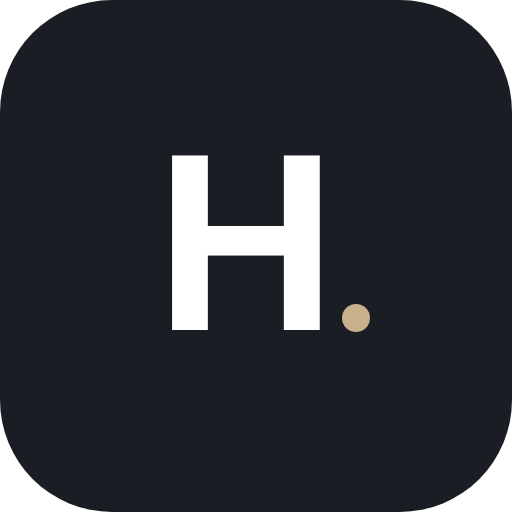
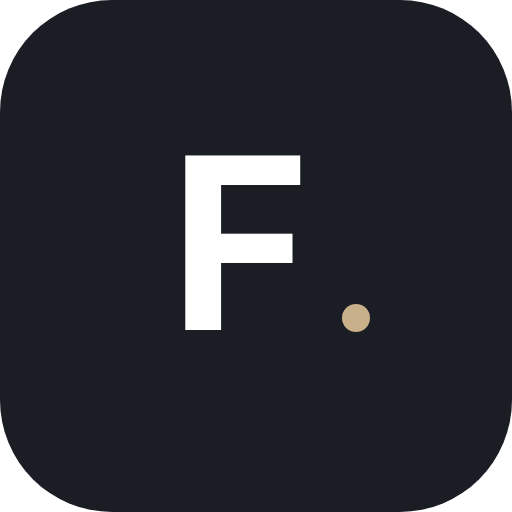
Rename the app to Farshad Ku
Claude-Session: https://claude.ai/code/session_01W8ddfK1Zk53umE7ZrYZM4E

Changed region(s): [[0.4062, 0.2812, 0.625, 0.6562], [0.3125, 0.2812, 0.375, 0.6562]]

diff --git a/js/app.js b/js/app.js
@@ -67,7 +67,7 @@ function shell(inner) {
   return `
   ${DEMO_MODE ? `<div class="demo-banner">${t('demoBanner')}</div>` : ''}
   <header class="topbar"><div class="wrap">
-    <a class="brand" href="#/">Hall<span>Hub</span></a>
+    <a class="brand" href="#/">Farshad<span style="margin-left:.28em">Ku</span></a>
     <div class="row">
       <button class="lang-toggle" data-act="lang">${getLang() === 'en' ? 'മലയാളം' : 'English'}</button>
       ${S.user ? '' : `<a class="btn sm" href="#/login">${t('login')}</a>`}
@@ -116,7 +116,7 @@ function vendorCard(v, avail) {
   const cat = catById(v.category);
   return `<a class="vcard" href="#/v/${v.id}">
     <div class="cover" style="${coverStyle(v)}">${v.portfolio?.[0] ? '' : `<div class="pattern"></div><div class="glyph">${cat?.icon || '✨'}</div>`}
-      <div class="row wrap-x">${v.verified ? `<span class="badge">✔ ${t('verified')}</span>` : ''}${v.featured ? '<span class="badge gold">★ Featured</span>' : ''}${v.isDemo ? '<span class="badge demo">Demo</span>' : ''}${unclaimed(v) ? '<span class="badge">📍 Not on HallHub yet</span>' : ''}${v.monsoon === 'safe' ? '<span class="badge ok">Monsoon-ready</span>' : ''}</div>
+      <div class="row wrap-x">${v.verified ? `<span class="badge">✔ ${t('verified')}</span>` : ''}${v.featured ? '<span class="badge gold">★ Featured</span>' : ''}${v.isDemo ? '<span class="badge demo">Demo</span>' : ''}${unclaimed(v) ? '<span class="badge">📍 Not on Farshad Ku yet</span>' : ''}${v.monsoon === 'safe' ? '<span class="badge ok">Monsoon-ready</span>' : ''}</div>
     </div>
     <div class="vbody">
       <div class="vname">${esc(v.businessName)}</div>
@@ -211,7 +211,7 @@ async function viewHome() {
         <div class="grid" style="margin-top:10px">${services.slice(0, 4).map((v) => vendorCard(v)).join('')}</div></section>
       <section class="section"><div class="section-head"><h2>${t('reviewsTitle')}</h2></div>
         <div class="grid">${SEED_REVIEWS.map((r) => `<div class="card"><div class="stars">${'★'.repeat(r.rating)}</div><p style="font-family:var(--serif);font-size:1.15rem;margin:.4em 0">“${esc(r.text)}”</p><div class="small muted">${esc(r.name)} · ${esc(r.district)} <span class="badge demo">Demo</span></div></div>`).join('')}</div></section>
-      <section class="section card stack"><h2 style="margin:0">Someone asking you to pay for a booking?</h2><p class="muted" style="margin:0">Check the HallHub booking code before you pay. Fake booking messages with payment links and QR codes are common.</p><a class="btn ghost" href="#/verify">Check a booking code</a></section>
+      <section class="section card stack"><h2 style="margin:0">Someone asking you to pay for a booking?</h2><p class="muted" style="margin:0">Check the Farshad Ku booking code before you pay. Fake booking messages with payment links and QR codes are common.</p><a class="btn ghost" href="#/verify">Check a booking code</a></section>
       <section class="section card center stack"><h2>Own an auditorium or hall?</h2><p class="muted">List it free, manage your booking calendar and send quotations from one dashboard.</p><a class="btn gold" href="#/vendor/register">List your venue</a></section>
     </div>`,
     mount() {
@@ -280,7 +280,7 @@ async function viewExplore(params) {
       </form>
       <p class="muted small">${rows.length} ${services ? 'service' : 'venue'}${rows.length === 1 ? '' : 's'}${p.date && !services ? ` free on ${fmtDate(p.date)} · ${slotLabel(slot)}` : ''}</p>
       <div class="grid">${rows.map(card).join('') || `<div class="empty full">${t('noResults')}${p.date ? ' Try another date or slot.' : ''}</div>`}</div>
-      ${hiddenUnknown ? `<div class="card small muted" style="margin-top:14px">${hiddenUnknown} more hall${hiddenUnknown === 1 ? '' : 's'} in this area haven't joined HallHub yet, so their availability is unknown. <a href="#/explore?${new URLSearchParams(Object.entries(p).filter(([k]) => !['date', 'slot', 'guests'].includes(k))).toString()}">Show them</a></div>` : ''}
+      ${hiddenUnknown ? `<div class="card small muted" style="margin-top:14px">${hiddenUnknown} more hall${hiddenUnknown === 1 ? '' : 's'} in this area haven't joined Farshad Ku yet, so their availability is unknown. <a href="#/explore?${new URLSearchParams(Object.entries(p).filter(([k]) => !['date', 'slot', 'guests'].includes(k))).toString()}">Show them</a></div>` : ''}
     </div>`,
     mount() {
       const f = $('#flt');
@@ -295,7 +295,7 @@ async function viewVendor(id) {
   if (!v || (v.status !== 'approved' && role() !== 'admin' && S.user?.uid !== v.ownerId)) return { html: `<div class="wrap empty">Vendor not found.</div>` };
   if (unclaimed(v)) {
     return {
-      html: `<div class="cover venue-hero" style="${coverStyle(v)}"><div class="pattern"></div><div class="glyph" style="font-size:3.4rem">${catById(v.category)?.icon || '🏛'}</div><div class="row wrap-x"><span class="badge">📍 Not on HallHub yet</span></div></div>
+      html: `<div class="cover venue-hero" style="${coverStyle(v)}"><div class="pattern"></div><div class="glyph" style="font-size:3.4rem">${catById(v.category)?.icon || '🏛'}</div><div class="row wrap-x"><span class="badge">📍 Not on Farshad Ku yet</span></div></div>
       <div class="wrap stack" style="padding-top:16px">
         <div><h1 style="margin:0">${esc(v.businessName)}</h1><div class="muted">${esc(catName(v.category))} · ${esc(v.town)}, ${esc(distName(v.district))}</div></div>
         <div class="card stack"><p style="margin:0">${esc(v.description)}</p>
@@ -317,7 +317,7 @@ async function viewVendor(id) {
   const tfs = venue ? await openTransfers(id) : [];
   const pr = planPrefs(); const inCompare = compareList().includes(id);
   let ym = (pr.date && pr.date >= today() ? pr.date : today()).slice(0, 7); let pickDate = pr.date && pr.date >= today() ? pr.date : ''; let pickSlot = '';
-  const wa = v.whatsapp ? `https://wa.me/${v.whatsapp}?text=${encodeURIComponent(`Hi ${v.businessName}, I found you on HallHub and would like to enquire about your services.`)}` : '';
+  const wa = v.whatsapp ? `https://wa.me/${v.whatsapp}?text=${encodeURIComponent(`Hi ${v.businessName}, I found you on Farshad Ku and would like to enquire about your services.`)}` : '';
   return {
     html: `
     <div class="cover venue-hero" style="${coverStyle(v)}">${v.portfolio?.[0] ? '' : `<div class="pattern"></div><div class="glyph" style="font-size:3.4rem">${catById(v.category)?.icon || '✨'}</div>`}
@@ -519,14 +519,14 @@ async function viewEnquiry(id) {
   const orig = isVendor && e.transferOf ? await db.get('enquiries', e.transferOf) : null;
   const vRec = e.isVenue && !isVendor && confirmed && isMonsoon(e.date) ? await db.get('vendors', e.vendorId) : null;
   const protect = confirmed || e.status === 'transferred' ? `<div class="card stack"><div class="row between wrap-x"><h3 style="margin:0">Your booking is protected</h3><span class="badge ok">${code}</span></div>
-      <p class="small" style="margin:0">The slot is locked in HallHub's calendar and can't be sold to anyone else. Share the code with family; anyone can check it at HallHub's verify page.</p>
+      <p class="small" style="margin:0">The slot is locked in Farshad Ku's calendar and can't be sold to anyone else. Share the code with family; anyone can check it at Farshad Ku's verify page.</p>
       <div class="row wrap-x"><a class="btn sm" href="#/agreement/${id}">Booking agreement</a><a class="btn sm ghost" href="#/verify/${code}">Check code</a></div></div>
     ${vRec ? `<div class="card stack"><div class="row between wrap-x"><h3 style="margin:0">Monsoon plan</h3>${monsoonBadge(vRec)}</div>
       <p class="small" style="margin:0">Your date falls in the monsoon months. ${esc(MONSOON[vRec.monsoon] || 'The hall has not said whether it floods')}.${vRec.rainPolicy ? ` Hall's rain policy: ${esc(vRec.rainPolicy)}.` : ' Ask the hall what happens if the area floods.'}</p>
       <div id="rainB" class="small muted">Looking for backup halls free on your date…</div></div>` : ''}
     ${!isVendor && confirmed && e.isVenue && e.date >= today() ? (myTransfer?.status === 'open'
       ? `<div class="card stack"><h3 style="margin:0">Your date is listed for transfer</h3><p class="small" style="margin:0">Families searching ${fmtDate(e.date)} can see it and request it. When one does, the hall releases your slot to them and refunds your advance under its terms.</p><button class="btn sm ghost" data-act="withdrawT">Withdraw the offer</button></div>`
-      : `<details class="card"><summary class="small" style="cursor:pointer;font-weight:600">Can't use this date?</summary><div class="stack" style="margin-top:10px"><p class="small" style="margin:0">Many halls refund the advance only when another family takes the date. Offer your date here and HallHub shows it to families searching for ${fmtDate(e.date)}.</p>
+      : `<details class="card"><summary class="small" style="cursor:pointer;font-weight:600">Can't use this date?</summary><div class="stack" style="margin-top:10px"><p class="small" style="margin:0">Many halls refund the advance only when another family takes the date. Offer your date here and Farshad Ku shows it to families searching for ${fmtDate(e.date)}.</p>
         <input id="tNote" placeholder="Note for the next family (optional)"><button class="btn sm" data-act="offerT">Offer my date to another family</button></div></details>`) : ''}
     ${!isVendor && (confirmed || open) ? scamShield() : ''}` : '';
   const transferCard = orig ? `<div class="card stack" style="box-shadow:inset 0 0 0 1.5px var(--warn),var(--lift)"><h3 style="margin:0">Transfer request</h3>
@@ -848,7 +848,7 @@ async function viewVendorDash() {
       ${isVenue(v) ? `<div class="stat-grid">${stat(regMonth.length, 'Bookings this month')}${stat(money(regMonth.reduce((a, r) => a + regTotal(r), 0)), 'Booking value this month')}${stat(money(collected), 'Collected this month')}${stat(money(dueTotal), 'Dues pending')}</div>
       <div class="row wrap-x"><a class="btn" href="#/vendor/calendar">Add a booking</a><a class="btn ghost" href="#/vendor/reports">Reports</a></div>
       <div class="card"><h3>Next events</h3>${next.map((r) => `<a class="list-item" href="#/vendor/booking/${r.id}" style="color:var(--ink)"><div><b>${fmtDate(r.date)}</b> · ${esc(slotName(r.slot))}<div class="small muted">${esc(r.customerName)} · ${esc(r.eventType)}</div></div>${regBal(r) > 0 ? `<b style="color:var(--warn)">Due ${money(regBal(r))}</b>` : '<span class="small muted">Paid</span>'}</a>`).join('') || '<p class="muted small">No upcoming bookings.</p>'}</div>
-      <h2 style="margin-top:8px">HallHub requests</h2>` : ''}
+      <h2 style="margin-top:8px">Farshad Ku requests</h2>` : ''}
       <div class="stat-grid">${stat(es.length, 'Total enquiries')}${stat(es.filter((e) => e.status === 'enquiry').length, 'New enquiries')}${stat(es.filter((e) => e.status === 'negotiation').length, 'Revision requests')}${stat(es.filter((e) => e.status === 'quoted').length, 'Quotes awaiting reply')}${stat(conf.length, 'Confirmed bookings')}${stat(money(rev), 'Booked this month')}${stat(v.views || 0, 'Profile views')}${stat('★ ' + Number(v.rating || 0).toFixed(1), (v.reviewCount || 0) + ' reviews')}</div>
       <div class="card"><h3>Needs your action</h3>${es.filter((e) => ['enquiry', 'negotiation'].includes(e.status)).slice(0, 6).map((e) => `<a class="list-item" href="#/enquiry/${e.id}" style="color:var(--ink)"><div><b>${esc(e.customerName)}</b><div class="small muted">${esc(e.eventType)} · ${fmtDate(e.date)}${e.slot ? ' · ' + esc(slotName(e.slot)) : ''} · ${e.guests || '—'} guests</div></div>${statusBadge(e.status)}</a>`).join('') || '<p class="muted small">All caught up.</p>'}</div>
       <div class="card"><h3>Upcoming events</h3>${upcoming.slice(0, 5).map((e) => `<a class="list-item" href="#/enquiry/${e.id}" style="color:var(--ink)"><div><b>${fmtDate(e.date)}</b>${e.slot ? ' · ' + esc(slotName(e.slot)) : ''} · ${esc(e.customerName)}<div class="small muted">${esc(e.eventType)} · ${e.guests || '—'} guests</div></div><span class="price">${money(e.finalAmount)}</span></a>`).join('') || '<p class="muted small">No upcoming bookings.</p>'}</div>
@@ -876,7 +876,7 @@ async function viewVendorCalendar() {
   let ym = today().slice(0, 7); let pick = today();
   return {
     html: `<div class="wrap stack" style="padding-top:16px"><h1>${t('calendar')}</h1>
-      <p class="small muted" style="margin:0">Confirmed HallHub bookings fill in automatically. Block slots you booked offline (phone, walk-in) so customers can't request them.</p>
+      <p class="small muted" style="margin:0">Confirmed Farshad Ku bookings fill in automatically. Block slots you booked offline (phone, walk-in) so customers can't request them.</p>
       <div class="card" id="vcal"></div><div class="card stack" id="dayBox"></div>
       <div class="card"><h3>Upcoming bookings</h3>${es.filter((e) => e.date >= today()).sort((a, b) => a.date.localeCompare(b.date)).map((e) => `<a class="list-item" href="#/enquiry/${e.id}" style="color:var(--ink)"><div><b>${fmtDate(e.date)}</b> · ${esc(slotName(e.slot))}<div class="small muted">${esc(e.customerName)} · ${esc(e.eventType)} · ${e.guests || '—'} guests</div></div><span class="price">${money(e.finalAmount)}</span></a>`).join('') || '<p class="muted small">No upcoming bookings yet.</p>'}</div>
     </div>`,
@@ -886,7 +886,7 @@ async function viewVendorCalendar() {
         const day = rows.filter((r) => r.date === pick);
         $('#dayBox').innerHTML = `<h3 style="margin:0">${fmtDate(pick)}</h3>${['morning', 'evening'].map((h) => {
           const r = day.find((x) => x.half === h); const b = r && r.enquiryId ? es.find((e) => e.id === r.enquiryId) : null;
-          return `<div class="list-item"><div><b>${slotLabel(h)}</b><div class="small muted">${!r ? t('available') : b ? `Booked · ${esc(b.customerName)} · ${money(b.finalAmount)}` : r.enquiryId ? 'Booked via HallHub' : 'Blocked — ' + esc(r.note || 'offline booking')}</div></div>
+          return `<div class="list-item"><div><b>${slotLabel(h)}</b><div class="small muted">${!r ? t('available') : b ? `Booked · ${esc(b.customerName)} · ${money(b.finalAmount)}` : r.enquiryId ? 'Booked via Farshad Ku' : 'Blocked — ' + esc(r.note || 'offline booking')}</div></div>
             ${!r ? `<button class="btn sm ghost" data-block="${h}">Block</button>` : r.source === 'manual' ? `<button class="btn sm ghost" data-unblock="${r.id}">Unblock</button>` : b ? `<a class="btn sm ghost" href="#/enquiry/${b.id}">View</a>` : ''}</div>`;
         }).join('')}`;
       };
@@ -1039,11 +1039,11 @@ function dupes(vs) {
 // =====================================================================
 // BOOKING PROTECTION — agreement, verification code, date transfer, scam shield, monsoon
 // =====================================================================
-const bookingCode = (id) => 'HH-' + String(id).replace(/[^a-z0-9]/gi, '').slice(-6).toUpperCase();
+const bookingCode = (id) => 'FK-' + String(id).replace(/[^a-z0-9]/gi, '').slice(-6).toUpperCase();
 const verifyLink = (code) => `${location.origin}${location.pathname}#/verify/${code}`;
 const initials = (n) => String(n || '').split(/\s+/).filter(Boolean).map((w) => w[0].toUpperCase() + '.').join(' ') || 'Customer';
 async function issueVerification(code, data) { await db.set('verifications', code, { code, ...data, issuedAt: Date.now() }).catch(() => {}); }
-const scamShield = () => `<div class="shield"><b>Pay only inside HallHub or at the hall's counter.</b> HallHub and verified halls never ask you to pay through a link, QR code or bank account sent on WhatsApp or by phone. Unsure about a booking? <a href="#/verify">Check its booking code</a>.</div>`;
+const scamShield = () => `<div class="shield"><b>Pay only inside Farshad Ku or at the hall's counter.</b> Farshad Ku and verified halls never ask you to pay through a link, QR code or bank account sent on WhatsApp or by phone. Unsure about a booking? <a href="#/verify">Check its booking code</a>.</div>`;
 const MONSOON = { safe: 'No flooding reported in past monsoons', road: 'Approach road can flood in heavy rain', unknown: 'Not yet checked' };
 const isMonsoon = (d) => { const m = Number(String(d || '').slice(5, 7)); return m >= 6 && m <= 9; };
 function monsoonBadge(v) { if (!isVenue(v) || !v.monsoon) return ''; return v.monsoon === 'safe' ? '<span class="badge ok">Monsoon-ready</span>' : v.monsoon === 'road' ? '<span class="badge warn">Road may flood</span>' : ''; }
@@ -1051,8 +1051,8 @@ function refundRows(v, advance) {
   const c = v?.cancel;
   const rows = (!c || !c.refundPct || !c.freeDays) ? [['After booking', `Advance of ${money(advance)} is not refunded`]]
     : [[`${c.freeDays} or more days before the event`, `${c.refundPct}% of the advance refunded (${money(Math.round((advance * c.refundPct) / 100))})`], [`Less than ${c.freeDays} days before`, 'Advance not refunded']];
-  rows.push(['If another family takes your date through HallHub', 'Ask the hall to refund your advance; the transfer is recorded here']);
-  rows.push(['If the hall cancels', 'Everything you paid is refunded, and HallHub suggests free halls for your date']);
+  rows.push(['If another family takes your date through Farshad Ku', 'Ask the hall to refund your advance; the transfer is recorded here']);
+  rows.push(['If the hall cancels', 'Everything you paid is refunded, and Farshad Ku suggests free halls for your date']);
   return rows;
 }
 
@@ -1062,14 +1062,14 @@ async function viewVerify(code) {
   const ok = rec && rec.status === 'confirmed';
   return {
     html: `<div class="wrap stack" style="padding-top:16px"><h1 style="margin:0">Check a booking</h1>
-      <p class="muted" style="margin:0">Every HallHub booking has a code like HH-4F9K2A. Check it here before you pay anyone.</p>
-      <form id="vf" class="card row"><input name="code" placeholder="HH-XXXXXX" value="${esc(code)}" style="text-transform:uppercase" required><button class="btn">Check</button></form>
+      <p class="muted" style="margin:0">Every Farshad Ku booking has a code like FK-4F9K2A. Check it here before you pay anyone.</p>
+      <form id="vf" class="card row"><input name="code" placeholder="FK-XXXXXX" value="${esc(code)}" style="text-transform:uppercase" required><button class="btn">Check</button></form>
       ${!code ? '' : rec ? `<div class="card stack" style="box-shadow:inset 0 0 0 1.5px ${ok ? 'var(--leaf)' : 'var(--warn)'},var(--lift)">
-        <div class="row between wrap-x"><h3 style="margin:0">${ok ? 'Genuine HallHub booking' : 'This booking is no longer active'}</h3>${ok ? '<span class="badge ok">✓ Verified</span>' : `<span class="badge warn">${esc(rec.status)}</span>`}</div>
+        <div class="row between wrap-x"><h3 style="margin:0">${ok ? 'Genuine Farshad Ku booking' : 'This booking is no longer active'}</h3>${ok ? '<span class="badge ok">✓ Verified</span>' : `<span class="badge warn">${esc(rec.status)}</span>`}</div>
         <table class="cmp"><tr><td>Code</td><td><b>${esc(rec.code)}</b></td></tr><tr><td>Venue</td><td>${esc(rec.venueName)}</td></tr><tr><td>Date</td><td>${fmtDate(rec.date)}${rec.slot ? ' · ' + esc(slotLabel(rec.slot)) : ''}</td></tr><tr><td>Booked by</td><td>${esc(rec.customerInitials)}</td></tr></table>
-        <p class="small muted" style="margin:0">Pay any balance only through HallHub or at the hall's own counter against a receipt.</p></div>`
+        <p class="small muted" style="margin:0">Pay any balance only through Farshad Ku or at the hall's own counter against a receipt.</p></div>`
       : `<div class="card stack" style="box-shadow:inset 0 0 0 1.5px var(--bad),var(--lift)"><h3 style="margin:0;color:var(--bad)">No booking found with this code</h3>
-        <p class="small" style="margin:0">Don't pay anyone who gave you this code. Check it for typing mistakes, or ask the hall to show the booking in their HallHub register.</p></div>`}
+        <p class="small" style="margin:0">Don't pay anyone who gave you this code. Check it for typing mistakes, or ask the hall to show the booking in their Farshad Ku register.</p></div>`}
     </div>`,
     mount() { $('#vf').onsubmit = (e) => { e.preventDefault(); go('#/verify/' + formData(e.target).code.trim().toUpperCase()); }; },
   };
@@ -1082,12 +1082,12 @@ async function viewAgreement(id) {
   const [v, q] = await Promise.all([db.get('vendors', e.vendorId), e.acceptedQuoteId ? db.get('quotations', e.acceptedQuoteId) : null]);
   const code = bookingCode(id); const total = Number(e.finalAmount || 0); const adv = Number(e.advanceDue || 0);
   const c = v?.charges || {};
-  const text = `HallHub booking agreement ${code}\n${e.vendorName}\n${fmtDate(e.date)}${e.slot ? ', ' + slotLabel(e.slot) : ''}\nTotal ${money(total)}, advance ${money(adv)}, balance ${money(total - adv)}\nCheck it: ${verifyLink(code)}`;
+  const text = `Farshad Ku booking agreement ${code}\n${e.vendorName}\n${fmtDate(e.date)}${e.slot ? ', ' + slotLabel(e.slot) : ''}\nTotal ${money(total)}, advance ${money(adv)}, balance ${money(total - adv)}\nCheck it: ${verifyLink(code)}`;
   return {
     html: `<div class="wrap stack" style="padding-top:16px">
       <div class="row between no-print"><a href="#/enquiry/${id}" class="small">← Booking</a><div class="row"><button class="btn sm ghost" data-act="print">Print / Save PDF</button><a class="btn sm green" target="_blank" rel="noopener" href="https://wa.me/?text=${encodeURIComponent(text)}">Share</a></div></div>
       <div class="card receipt stack agreement">
-        <div class="row between" style="align-items:flex-start"><div><h2 style="margin:0">Booking agreement</h2><div class="small muted">Recorded on HallHub</div></div><div style="text-align:right"><b>${code}</b><div class="small muted">${e.confirmedAt ? new Date(e.confirmedAt).toLocaleDateString('en-IN') : ''}</div></div></div>
+        <div class="row between" style="align-items:flex-start"><div><h2 style="margin:0">Booking agreement</h2><div class="small muted">Recorded on Farshad Ku</div></div><div style="text-align:right"><b>${code}</b><div class="small muted">${e.confirmedAt ? new Date(e.confirmedAt).toLocaleDateString('en-IN') : ''}</div></div></div>
         ${e.status === 'transferred' ? '<div class="msg" style="background:#F6EBD2">This booking was transferred to another family and is no longer active.</div>' : ''}
         <table class="cmp"><tr><td>Hall</td><td><b>${esc(e.vendorName)}</b>${v?.address ? '<br>' + esc(v.address) : ''}${v?.phone ? '<br>' + esc(v.phone) : ''}${v?.gst ? '<br>GSTIN ' + esc(v.gst) : ''}</td></tr>
           <tr><td>Booked by</td><td>${esc(e.customerName)}${e.customerPhone ? ' · ' + esc(e.customerPhone) : ''}</td></tr>
@@ -1100,7 +1100,7 @@ async function viewAgreement(id) {
         <h3 style="margin:6px 0 0">Cancellation and refunds</h3>
         <table class="cmp">${refundRows(v, adv).map(([a, b]) => `<tr><td>${esc(a)}</td><td>${esc(b)}</td></tr>`).join('')}</table>
         ${v?.monsoon || v?.rainPolicy ? `<h3 style="margin:6px 0 0">Monsoon</h3><table class="cmp"><tr><td>Flooding</td><td>${esc(MONSOON[v.monsoon] || 'Not stated')}</td></tr>${v.rainPolicy ? `<tr><td>Hall's rain policy</td><td>${esc(v.rainPolicy)}</td></tr>` : ''}</table>` : ''}
-        <p class="small" style="margin:0">The hall sent quotation ${q ? 'version ' + q.version : ''} through HallHub and the customer accepted it on ${e.confirmedAt ? new Date(e.confirmedAt).toLocaleString('en-IN') : '—'}. The slot is locked in HallHub's calendar, so it cannot be sold to anyone else.</p>
+        <p class="small" style="margin:0">The hall sent quotation ${q ? 'version ' + q.version : ''} through Farshad Ku and the customer accepted it on ${e.confirmedAt ? new Date(e.confirmedAt).toLocaleString('en-IN') : '—'}. The slot is locked in Farshad Ku's calendar, so it cannot be sold to anyone else.</p>
         <p class="small muted" style="margin:0">Anyone can check this booking at ${esc(verifyLink(code))}</p>
       </div></div>`,
     mount() { $('#view').onclick = (ev) => { if (ev.target.closest('[data-act=print]')) window.print(); }; },
@@ -1303,7 +1303,7 @@ const ymOf = (d) => (d || '').slice(0, 7);
 const monthName = (ym) => { const [y, m] = ym.split('-').map(Number); return new Date(y, m - 1, 1).toLocaleDateString('en-IN', { month: 'short', year: '2-digit' }); };
 const waLink = (phone, text) => `https://wa.me/${('91' + String(phone || '').replace(/\D/g, '').slice(-10))}?text=${encodeURIComponent(text)}`;
 
-// Confirmed HallHub bookings appear in the register automatically.
+// Confirmed Farshad Ku bookings appear in the register automatically.
 async function loadRegister() {
   const uid = S.user.uid;
   const [reg, es] = await Promise.all([db.list('register', ['venueId', uid]), db.list('enquiries', ['vendorOwnerId', uid])]);
@@ -1338,7 +1338,7 @@ async function viewRegister(params) {
         const regDay = reg.filter((r) => r.date === pick && regActive(r));
         const blocks = day.filter((r) => r.source === 'manual' && !r.registerId);
         $('#dayBox').innerHTML = `<div class="row between"><h3 style="margin:0">${fmtDate(pick)}</h3>${pick >= today() || true ? '' : ''}</div>
-          ${regDay.map((r) => `<a class="list-item" href="#/vendor/booking/${r.id}" style="color:var(--ink)"><div><b>${esc(r.customerName)}</b><div class="small muted">${esc(slotLabel(r.slot))} · ${esc(r.eventType)}${r.source === 'hallhub' ? ' · via HallHub' : ''}</div></div>
+          ${regDay.map((r) => `<a class="list-item" href="#/vendor/booking/${r.id}" style="color:var(--ink)"><div><b>${esc(r.customerName)}</b><div class="small muted">${esc(slotLabel(r.slot))} · ${esc(r.eventType)}${r.source === 'hallhub' ? ' · via Farshad Ku' : ''}</div></div>
             <div style="text-align:right"><div class="price">${money(regTotal(r))}</div><div class="small ${regBal(r) > 0 ? '' : 'muted'}" style="${regBal(r) > 0 ? 'color:var(--warn);font-weight:600' : ''}">${regBal(r) > 0 ? 'Due ' + money(regBal(r)) : 'Paid in full'}</div></div></a>`).join('')}
           ${blocks.map((b) => `<div class="list-item"><div><b>${esc(slotLabel(b.half))}</b><div class="small muted">Blocked · ${esc(b.note || 'no details')}</div></div><button class="btn sm ghost" data-unblock="${b.id}">Unblock</button></div>`).join('')}
           ${slotFree(taken, 'morning') || slotFree(taken, 'evening') ? `<button class="btn block" data-act="newBk">Add a booking on this date</button>` : '<p class="small muted" style="margin:0">Fully booked.</p>'}
@@ -1408,10 +1408,10 @@ async function viewRegisterEntry(id) {
     html: `<div class="wrap stack" style="padding-top:16px">
       <a href="#/vendor/calendar?d=${r.date}&m=${r.date.slice(0, 7)}" class="small">← Register</a>
       <div class="card stack">
-        <div class="small muted">Booking code <b style="color:var(--ink)">${r.enquiryId ? bookingCode(r.enquiryId) : bookingCode(id)}</b> · customers can check it on HallHub</div>
+        <div class="small muted">Booking code <b style="color:var(--ink)">${r.enquiryId ? bookingCode(r.enquiryId) : bookingCode(id)}</b> · customers can check it on Farshad Ku</div>
         <div class="row between wrap-x"><h2 style="margin:0">${esc(r.customerName)}</h2>${r.status === 'cancelled' ? '<span class="badge bad">Cancelled</span>' : bal > 0 ? `<span class="badge warn">Due ${money(bal)}</span>` : '<span class="badge ok">Paid in full</span>'}</div>
         <table class="cmp"><tr><td>Date</td><td>${fmtDate(r.date)} · ${esc(slotLabel(r.slot))}</td></tr><tr><td>Event</td><td>${esc(r.eventType)}${r.guests ? ' · ' + r.guests + ' guests' : ''}</td></tr>
-          <tr><td>Mobile</td><td>${r.customerPhone ? `<a href="tel:${esc(r.customerPhone)}">${esc(r.customerPhone)}</a>` : '—'}</td></tr><tr><td>Booked via</td><td>${r.source === 'hallhub' ? `HallHub${r.enquiryId ? ` · <a href="#/enquiry/${r.enquiryId}">view request</a>` : ''}` : 'Phone / walk-in'}</td></tr>
+          <tr><td>Mobile</td><td>${r.customerPhone ? `<a href="tel:${esc(r.customerPhone)}">${esc(r.customerPhone)}</a>` : '—'}</td></tr><tr><td>Booked via</td><td>${r.source === 'hallhub' ? `Farshad Ku${r.enquiryId ? ` · <a href="#/enquiry/${r.enquiryId}">view request</a>` : ''}` : 'Phone / walk-in'}</td></tr>
           ${r.notes ? `<tr><td>Notes</td><td>${esc(r.notes)}</td></tr>` : ''}</table>
       </div>
       <div class="card stack"><h3 style="margin:0">Payments</h3>
@@ -1450,7 +1450,7 @@ async function viewReceipt(id, idx) {
   const r = await db.get('register', id); const p = r?.payments?.[Number(idx)];
   if (!r || !p || r.venueId !== S.user.uid) return { html: '<div class="wrap empty">Receipt not found.</div>' };
   const v = S.vendor;
-  const no = `HH-${p.date.replace(/-/g, '').slice(2, 6)}-${id.slice(-4).toUpperCase()}-${Number(idx) + 1}`;
+  const no = `FK-${p.date.replace(/-/g, '').slice(2, 6)}-${id.slice(-4).toUpperCase()}-${Number(idx) + 1}`;
   const paidToDate = (r.payments || []).slice(0, Number(idx) + 1).reduce((a, x) => a + Number(x.amount), 0);
   const balAfter = regTotal(r) - paidToDate;
   const text = `Receipt ${no}\n${v.businessName}\nReceived ${money(p.amount)} from ${r.customerName} by ${p.mode} on ${fmtDate(p.date)}\nBooking: ${fmtDate(r.date)}, ${slotLabel(r.slot)}\nTotal ${money(regTotal(r))} · Paid ${money(paidToDate)} · Balance ${money(balAfter)}`;
@@ -1463,7 +1463,7 @@ async function viewReceipt(id, idx) {
         <p style="margin:0">Received with thanks from <b>${esc(r.customerName)}</b> the sum of <b>${money(p.amount)}</b> by ${esc(p.mode)}${p.note ? ` (${esc(p.note)})` : ''}.</p>
         <table class="cmp"><tr><td>Booking</td><td>${esc(r.eventType)} · ${fmtDate(r.date)} · ${esc(slotLabel(r.slot))}</td></tr><tr><td>Total charges</td><td>${money(regTotal(r))}</td></tr>
           <tr><td>Paid to date</td><td>${money(paidToDate)}</td></tr><tr><td><b>Balance</b></td><td><b>${money(balAfter)}</b></td></tr></table>
-        <div class="row between small muted" style="padding-top:24px"><span>Generated with HallHub</span><span>Authorised signatory</span></div>
+        <div class="row between small muted" style="padding-top:24px"><span>Generated with Farshad Ku</span><span>Authorised signatory</span></div>
       </div></div>`,
     mount() { $('#view').onclick = (e) => { if (e.target.closest('[data-act=print]')) window.print(); }; },
   };
@@ -1492,13 +1492,13 @@ async function viewReports(params) {
   return {
     html: `<div class="wrap stack" style="padding-top:16px">
       <div class="row between wrap-x"><h1 style="margin:0">Reports</h1><div class="row"><select id="mSel" style="width:auto">${months.slice().reverse().map((m) => `<option value="${m}" ${m === ym ? 'selected' : ''}>${monthName(m)}</option>`).join('')}</select><button class="btn sm ghost" data-act="csv">Export CSV</button></div></div>
-      <div class="stat-grid">${stat(inM.length, 'Bookings')}${stat(money(booked), 'Booking value')}${stat(money(collected), 'Collected this month')}${stat(occ + '%', 'Hall occupancy')}${stat(money(dueTotal), 'Dues pending (all)')}${stat(bySource.hallhub, 'Bookings via HallHub')}</div>
+      <div class="stat-grid">${stat(inM.length, 'Bookings')}${stat(money(booked), 'Booking value')}${stat(money(collected), 'Collected this month')}${stat(occ + '%', 'Hall occupancy')}${stat(money(dueTotal), 'Dues pending (all)')}${stat(bySource.hallhub, 'Bookings via Farshad Ku')}</div>
       <div class="card stack"><h3 style="margin:0">Booking value by month</h3>
         <div class="vbars">${trend.map((x) => `<div class="${x.m === ym ? 'on' : ''}" title="${monthName(x.m)}: ${money(x.v)}"><i style="--h:${Math.round((x.v / max) * 100)}%"></i><span>${monthName(x.m).split(' ')[0]}</span></div>`).join('')}</div></div>
       <div class="grid" style="grid-template-columns:repeat(auto-fill,minmax(260px,1fr))">
         <div class="card stack"><h3 style="margin:0">By event</h3>${Object.entries(byType).sort((a, b) => b[1] - a[1]).map(([k, n]) => bar(k, n, inM.length)).join('') || '<p class="small muted" style="margin:0">No bookings this month.</p>'}</div>
         <div class="card stack"><h3 style="margin:0">By slot</h3>${SLOTS.map((x) => bar(nameOf(x), bySlot[x.id] || 0, inM.length)).join('')}</div>
-        <div class="card stack"><h3 style="margin:0">Where bookings came from</h3>${bar('Phone / walk-in', bySource.offline, inM.length)}${bar('HallHub', bySource.hallhub, inM.length)}</div>
+        <div class="card stack"><h3 style="margin:0">Where bookings came from</h3>${bar('Phone / walk-in', bySource.offline, inM.length)}${bar('Farshad Ku', bySource.hallhub, inM.length)}</div>
       </div>
       <div class="card stack"><h3 style="margin:0">Pending dues</h3>${dues.map((r) => `<a class="list-item" href="#/vendor/booking/${r.id}" style="color:var(--ink)"><div><b>${esc(r.customerName)}</b><div class="small muted">${fmtDate(r.date)} · ${esc(slotName(r.slot))}${r.date < today() ? ' · event over' : ''}</div></div><b style="color:var(--warn)">${money(regBal(r))}</b></a>`).join('') || '<p class="small muted" style="margin:0">No pending dues.</p>'}</div>
     </div>`,
@@ -1509,7 +1509,7 @@ async function viewReports(params) {
         const head = ['Date', 'Slot', 'Customer', 'Mobile', 'Event', 'Guests', 'Rent', 'Extras', 'Total', 'Paid', 'Balance', 'Source', 'Status', 'Notes'];
         const all = reg.slice().sort((a, b) => a.date.localeCompare(b.date));
         const q = (x) => `"${String(x ?? '').replace(/"/g, '""')}"`;
-        const csv = [head, ...all.map((r) => [r.date, slotName(r.slot), r.customerName, r.customerPhone, r.eventType, r.guests, r.rent, r.extras, regTotal(r), regPaid(r), regBal(r), r.source === 'hallhub' ? 'HallHub' : 'Phone/walk-in', r.status, r.notes])].map((row) => row.map(q).join(',')).join('\n');
+        const csv = [head, ...all.map((r) => [r.date, slotName(r.slot), r.customerName, r.customerPhone, r.eventType, r.guests, r.rent, r.extras, regTotal(r), regPaid(r), regBal(r), r.source === 'hallhub' ? 'Farshad Ku' : 'Phone/walk-in', r.status, r.notes])].map((row) => row.map(q).join(',')).join('\n');
         const a = document.createElement('a'); a.href = URL.createObjectURL(new Blob(['' + csv], { type: 'text/csv' })); a.download = `${S.vendor.businessName.replace(/\W+/g, '-')}-bookings.csv`; a.click();
         toast('CSV downloaded');
       };

diff --git a/js/store.js b/js/store.js
@@ -7,7 +7,7 @@ import { buildSeedVendors, buildSeedBookings, buildRealHalls, buildSeedRegister 
 export let db, auth;
 
 if (DEMO_MODE) {
-  const KEY = 'hh_demo_db_v7';
+  const KEY = 'hh_demo_db_v8';
   const load = () => JSON.parse(localStorage.getItem(KEY) || 'null');
   const persist = (s) => localStorage.setItem(KEY, JSON.stringify(s));
   let state = load();
@@ -16,7 +16,7 @@ if (DEMO_MODE) {
     buildSeedVendors().forEach((v) => { state.vendors[v.id] = v; });
     buildRealHalls().forEach((v) => { state.vendors[v.id] = v; });
     buildSeedBookings().forEach((b) => { state.slots[b.id] = b; });
-    const sr = buildSeedRegister(); sr.register.forEach((r) => { state.register[r.id] = r; const code = 'HH-' + r.id.replace(/[^a-z0-9]/gi, '').slice(-6).toUpperCase(); state.verifications[code] = { id: code, code, venueId: r.venueId, venueName: 'Sree Lakshmi Auditorium', date: r.date, slot: r.slot, customerInitials: r.customerName.split(' ').map((w) => w[0] + '.').join(' '), status: 'confirmed', source: 'register' }; }); sr.slots.forEach((b) => { state.slots[b.id] = b; });
+    const sr = buildSeedRegister(); sr.register.forEach((r) => { state.register[r.id] = r; const code = 'FK-' + r.id.replace(/[^a-z0-9]/gi, '').slice(-6).toUpperCase(); state.verifications[code] = { id: code, code, venueId: r.venueId, venueName: 'Sree Lakshmi Auditorium', date: r.date, slot: r.slot, customerInitials: r.customerName.split(' ').map((w) => w[0] + '.').join(' '), status: 'confirmed', source: 'register' }; }); sr.slots.forEach((b) => { state.slots[b.id] = b; });
     state.users.demo_customer = { id: 'demo_customer', name: 'Demo Customer', phone: '+91 90000 00001', role: 'customer', isDemo: true };
     state.users.demo_vendor = { id: 'demo_vendor', name: 'Demo Vendor', phone: '+91 90000 01000', role: 'vendor', isDemo: true };
     state.users.demo_admin = { id: 'demo_admin', name: 'Demo Admin', role: 'admin', isDemo: true };

diff --git a/js/data.js b/js/data.js
@@ -229,7 +229,7 @@ export function buildRealHalls() {
       id: `real_${slug}`, ownerId: '', isDemo: false, isReal: true, claimed: false, corridor: 'chavakkad-ponnani',
       businessName: name, category, district, town, address: `${locality}, ${districtById(district).en}, Kerala`,
       placeId, mapsUrl: `https://www.google.com/maps/place/?q=place_id:${placeId}`,
-      description: `${name} is ${({ auditorium: 'an auditorium', convention: 'a convention centre', 'community-hall': 'a community hall' })[category]} in ${locality}. This hall hasn’t joined HallHub yet, so its capacity, rent and free dates aren’t listed. Contact the hall directly, or ask the owner to claim this listing.`,
+      description: `${name} is ${({ auditorium: 'an auditorium', convention: 'a convention centre', 'community-hall': 'a community hall' })[category]} in ${locality}. This hall hasn’t joined Farshad Ku yet, so its capacity, rent and free dates aren’t listed. Contact the hall directly, or ask the owner to claim this listing.`,
       seating: 0, dining: 0, parking: 0, rooms: 0, ac: '', catering: '', amenities: [], slotPrices: null,
       startingPrice: 0, priceUnit: '', rating: 0, reviewCount: 0, serviceDistricts: [district], policies: '', traditions: [],
       palette: PALETTES[(i + 3) % PALETTES.length], portfolio: [], status: 'approved', verified: false, featured: false,

diff --git a/sw.js b/sw.js
@@ -1,5 +1,5 @@
 // Network-first service worker: works offline for the app shell, always fetches fresh data.
-const CACHE = 'hallhub-v8';
+const CACHE = 'hallhub-v9';
 const SHELL = ['./', 'index.html', 'css/app.css', 'js/app.js', 'js/store.js', 'js/data.js', 'js/i18n.js', 'js/config.js', 'js/art.js', 'icon.svg'];
 self.addEventListener('install', (e) => { e.waitUntil(caches.open(CACHE).then((c) => c.addAll(SHELL))); self.skipWaiting(); });
 self.addEventListener('activate', (e) => { e.waitUntil(caches.keys().then((ks) => Promise.all(ks.filter((k) => k !== CACHE).map((k) => caches.delete(k))))); self.clients.claim(); });

diff --git a/index.html b/index.html
@@ -3,7 +3,7 @@
 <head>
   <meta charset="utf-8">
   <meta name="viewport" content="width=device-width, initial-scale=1, viewport-fit=cover">
-  <title>HallHub — Book Auditoriums & Halls in Kerala</title>
+  <title>Farshad Ku — Book Auditoriums & Halls in Kerala</title>
   <meta name="description" content="Check availability and book auditoriums, convention centres and wedding halls across all 14 districts of Kerala.">
   <meta name="theme-color" content="#1A1D23">
   <link rel="manifest" href="manifest.webmanifest">

diff --git a/android/app/src/main/java/com/hallhub/app/MainActivity.java b/android/app/src/main/java/com/hallhub/app/MainActivity.java
@@ -61,7 +61,7 @@ public class MainActivity extends Activity {
                 if (req.isForMainFrame()) {
                     view.loadDataWithBaseURL(null,
                         "<html><body style='font-family:sans-serif;background:#F7F6F3;color:#17191E;padding:40px 24px'>"
-                        + "<h2>You're offline</h2><p>HallHub needs an internet connection. Check your connection, then tap below.</p>"
+                        + "<h2>You're offline</h2><p>Farshad Ku needs an internet connection. Check your connection, then tap below.</p>"
                         + "<p><a href='" + HOME + "' style='display:inline-block;background:#1A1D23;color:#fff;padding:12px 18px;border-radius:12px;text-decoration:none'>Try again</a></p></body></html>",
                         "text/html", "utf-8", null);
                 }
@@ -134,7 +134,7 @@ public class MainActivity extends Activity {
         public void print() {
             runOnUiThread(() -> {
                 PrintManager pm = (PrintManager) getSystemService(PRINT_SERVICE);
-                if (pm != null) pm.print("HallHub document", web.createPrintDocumentAdapter("HallHub document"), new PrintAttributes.Builder().build());
+                if (pm != null) pm.print("Farshad Ku document", web.createPrintDocumentAdapter("Farshad Ku document"), new PrintAttributes.Builder().build());
             });
         }
     }

diff --git a/README.md b/README.md
@@ -1,4 +1,4 @@
-# HallHub — Book Auditoriums & Wedding Halls in Kerala (Phase 1 MVP)
+# Farshad Ku — Book Auditoriums & Wedding Halls in Kerala (Phase 1 MVP)
 
 A mobile-first app you can install on a phone (PWA) for finding and booking **auditoriums, convention centres, community halls and wedding venues** across all 14 districts of Kerala. Photographers, sadya caterers, decorators and other services are listed as add-ons.
 Three roles: **customer**, **venue owner / vendor**, **admin**. Malayalam / English. Firebase backend (Auth + Firestore).
@@ -12,7 +12,7 @@ Three roles: **customer**, **venue owner / vendor**, **admin**. Malayalam / Engl
   - **Digital booking agreement:** hall, parties, date and slot, agreed total, advance and balance, overtime, cleaning and generator charges, what's included, the refund schedule, and monsoon terms. Print, save as PDF or share.
   - **Date transfer.** A family that can't use its date offers it to other families. It shows on the hall's calendar and under "Dates released by other families" on the home screen. When another family requests it, the owner releases the original booking with one tap and quotes the new family. This is for halls that refund the advance only when someone else takes the date.
   - **Monsoon readiness.** Owners say whether the hall or its approach road floods and state a rain policy. Halls show "Monsoon-ready". Bookings in June–September get a monsoon plan with backup halls free that day.
-  - **Scam warning** on booking screens: pay only inside HallHub or at the hall's counter.
+  - **Scam warning** on booking screens: pay only inside Farshad Ku or at the hall's counter.
 - **Plan my event:** enter event, district, guests, budget, a preferred date and how flexible you are. A grid shows every hall that fits and which nearby dates are free, sorted by real total cost, with "in budget" flags.
 - **True total cost on every hall page:** rent + food for your guests + overtime electricity + cleaning + generator + GST + decoration, with a per-guest figure and a checklist of questions to ask before paying.
 - **Compare up to 3 halls side by side** (free on your date, estimated total, capacity, parking, AC, catering rules, extra charges, cancellation terms) and **ask family on WhatsApp** with one tap.
@@ -24,8 +24,8 @@ Three roles: **customer**, **venue owner / vendor**, **admin**. Malayalam / Engl
 - **Booking request → quotation → negotiation → confirmation:** the venue sends a quotation (pre-filled with the slot rent and a 25% advance). The customer accepts, asks for a lower price, or declines, and every version is kept.
 - **No double bookings:** when a customer accepts, the slot is locked in the database (one record per venue, date and half-day, which can be created but never overwritten). If two people try to take the same slot, the second gets "this slot was just booked".
 - **Owner register (replaces the paper booking diary):**
-  - Add phone and walk-in bookings with customer, mobile, event, guests, rent, extra charges and advance. The slot is blocked for HallHub customers straight away.
-  - Confirmed HallHub bookings appear in the register automatically.
+  - Add phone and walk-in bookings with customer, mobile, event, guests, rent, extra charges and advance. The slot is blocked for Farshad Ku customers straight away.
+  - Confirmed Farshad Ku bookings appear in the register automatically.
   - Record each payment (cash, UPI, bank transfer, cheque) and see the balance per booking.
   - Print a receipt for every payment or save it as PDF, and send it, a booking confirmation or a payment reminder on WhatsApp.
   - Cancel a booking to free the slot.
